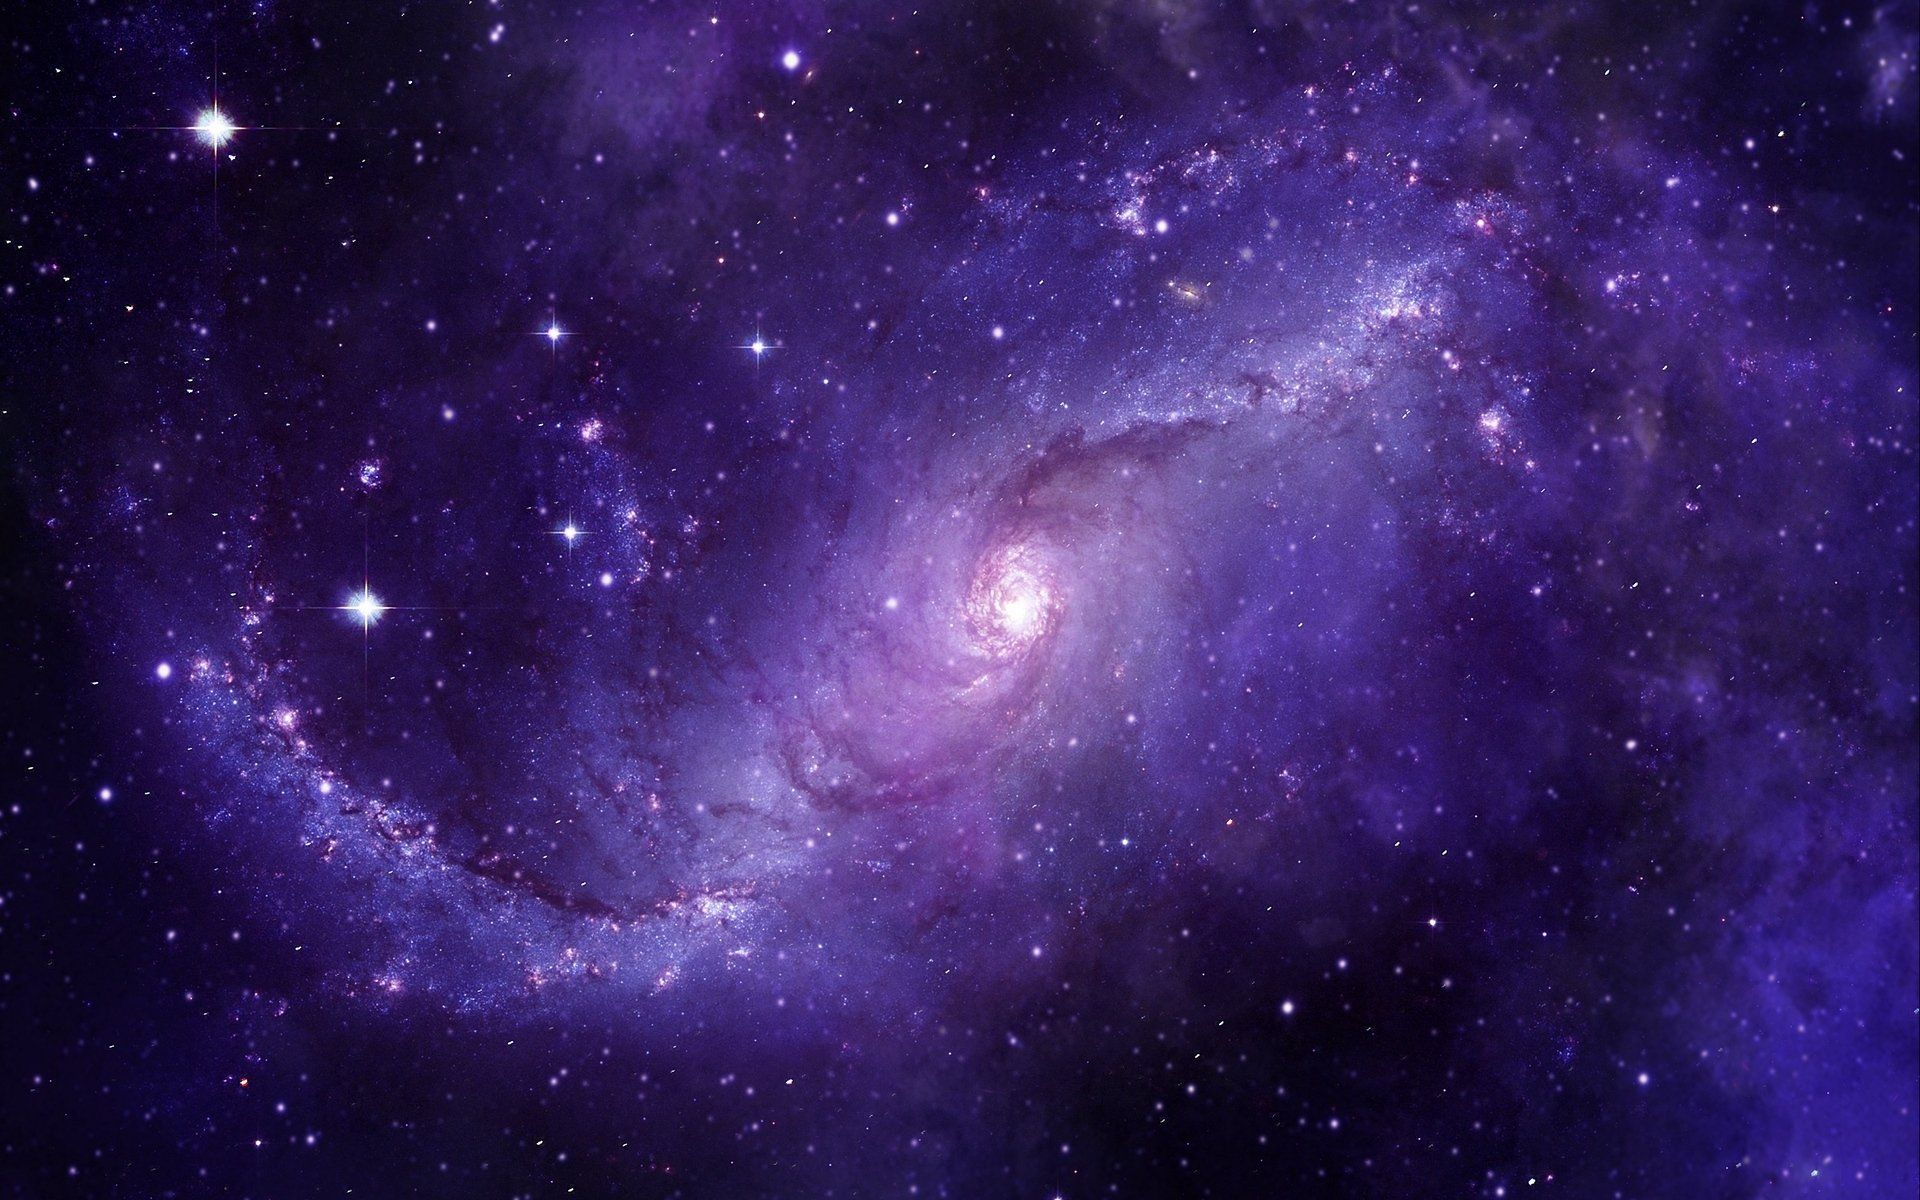
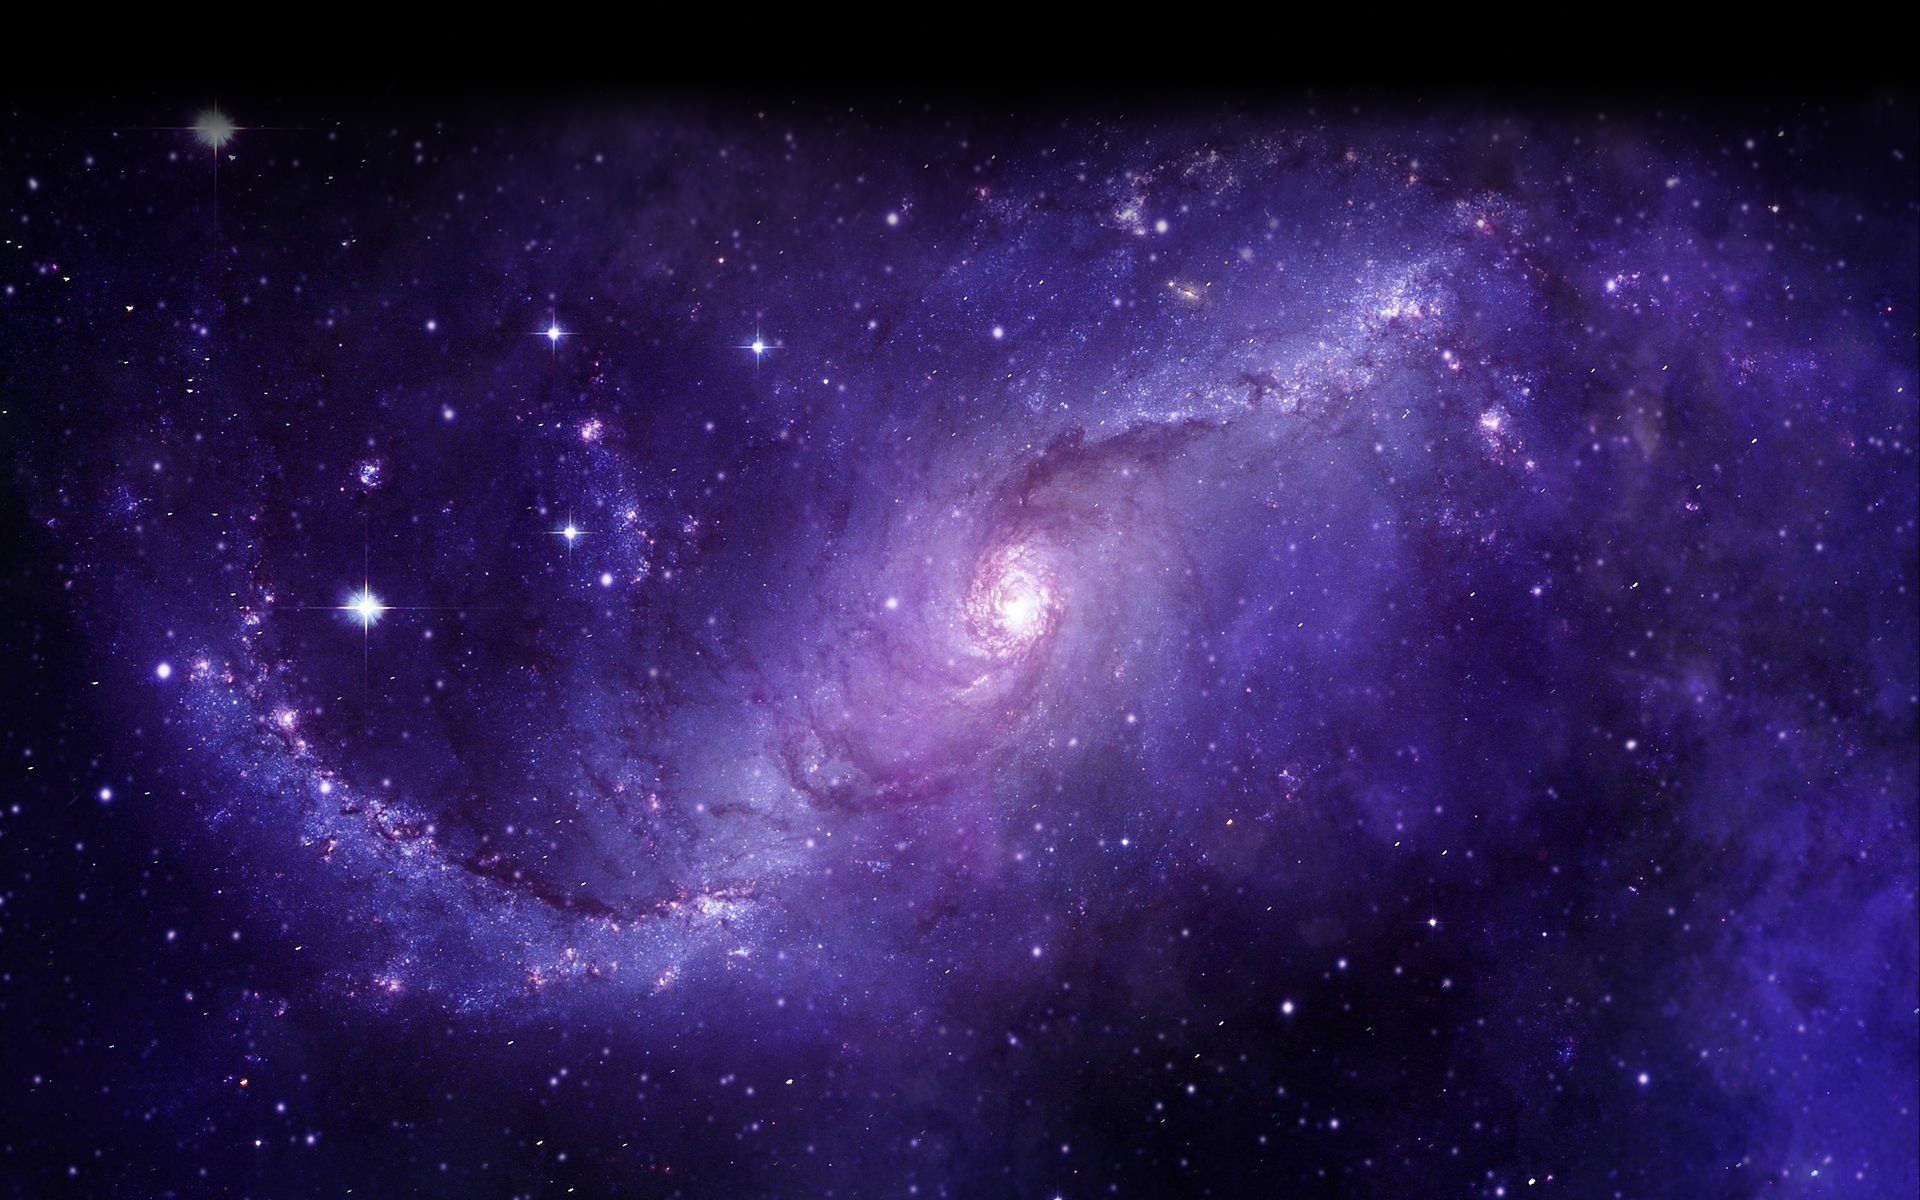
added a glow effect on the border of the added email link

Changed region(s): [[0.0, 0.0, 1.0, 0.2158]]

diff --git a/src/App.css b/src/App.css
@@ -40,7 +40,7 @@
 body,h1 {font-family: "Arial", sans-serif}
     body, html {height: 100%}
     .bgimg {
-      background-image: url('./assets/5enpai_background_service_homepage.png');
+      /* background-image: url('./assets/5enpai_background_service_homepage.png'); */
       min-height: 100vh;
       background-position: center;
       background-size: cover;
@@ -49,3 +49,14 @@ body,h1 {font-family: "Arial", sans-serif}
 .join-link {
   text-align: center;
 }
+
+body{
+  background:
+         /* top, transparent black, faked with gradient */ 
+         linear-gradient(
+           rgba(0, 0, 0, 0.7), 
+           rgba(0, 0, 0, 0.7)
+         ),
+         /* bottom, image */
+         url('./assets/5enpai_background_service_homepage.png');
+     }

diff --git a/src/index.css b/src/index.css
@@ -11,3 +11,14 @@ code {
   font-family: source-code-pro, Menlo, Monaco, Consolas, 'Courier New',
     monospace;
 }
+
+body{
+  background:
+         /* top, transparent black, faked with gradient */ 
+         linear-gradient(
+           rgba(0, 0, 0, 0.7), 
+           rgba(0, 0, 0, 0.7)
+         ),
+         /* bottom, image */
+         url(http://fc02.deviantart.net/fs71/i/2011/274/6/f/ocean__sky__stars__and_you_by_muddymelly-d4bg1ub.png);
+     }

diff --git a/src/JoinButton.scss b/src/JoinButton.scss
@@ -5,7 +5,8 @@
     text-transform: uppercase;
     text-decoration: none;
     border: 0.2em solid #F541C0;
-    padding: 0.5em 1em;
+    padding: 0.45em 1.5em;
+    box-shadow: 0px 0px 10px 5px rgba(245, 65, 191, 0.5);
     &::before {
       content: "";
       display: block;
